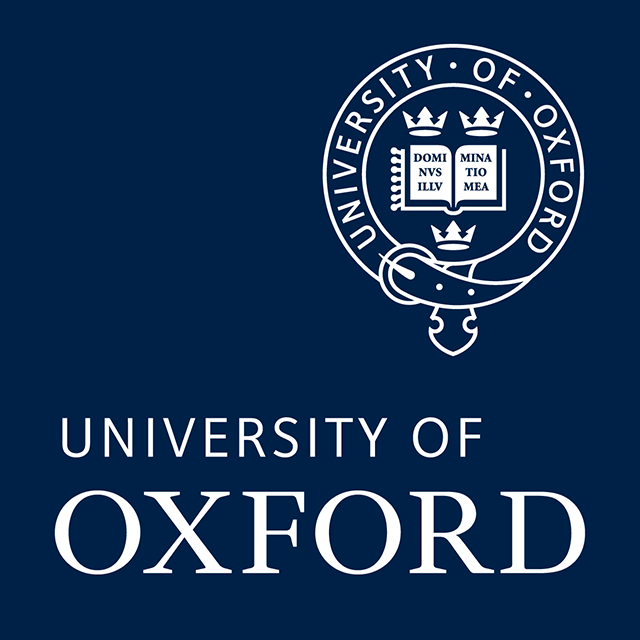
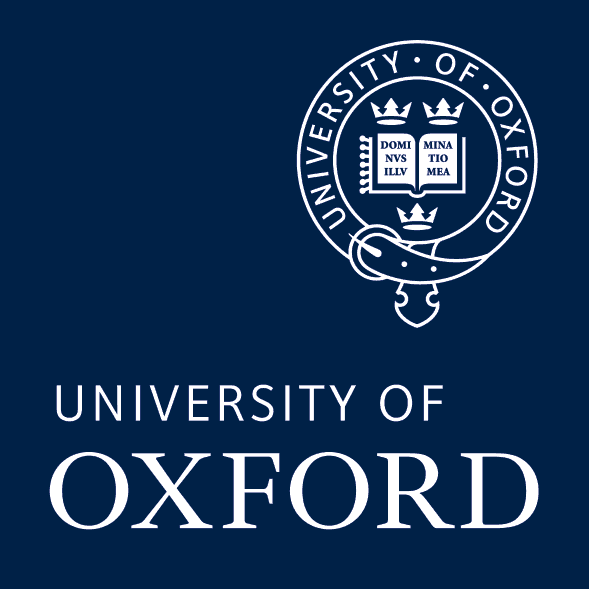
Improve images

diff --git a/server/templates/footer.html b/server/templates/footer.html
@@ -13,29 +13,41 @@
   <!-- AddToAny END -->
   <!-- Sponsor Links -->
   <div>
-    <img class="logo" height="64" width="64" src="{{STATIC_URL}}/img/oxford_64.png" srcset="
-        {{STATIC_URL}}/img/oxford_64.png 1x, 
-        {{STATIC_URL}}/img/oxford_96.png 1.5x,
+    <img
+      class="logo"
+      height="64"
+      width="64"
+      src="{{STATIC_URL}}/img/oxford_64.png"
+      srcset="
+        {{STATIC_URL}}/img/oxford_64.png  1x,
         {{STATIC_URL}}/img/oxford_128.png 2x,
-        {{STATIC_URL}}/img/oxford.png 2.5x
-      " alt="Logo of the University of Oxford" />
+        {{STATIC_URL}}/img/oxford.png     2.5x
+      "
+      alt="Logo of the University of Oxford"
+    />
 
-    <img class="logo" height="64" width="162" src="{{STATIC_URL}}/img/australian_national_university_64.jpg" srcset="
-        {{STATIC_URL}}/img/australian_national_university_64.jpg 1x, 
-        {{STATIC_URL}}/img/australian_national_university_96.jpg 1.5x,
-        {{STATIC_URL}}/img/australian_national_university_128.jpg 2x,
-        {{STATIC_URL}}/img/australian_national_university.jpg 2.5x
-      " alt="Logo of Australian National University" />
-    <img class="logo" height="64" width="109" src="{{STATIC_URL}}/img/foretold_64.png" srcset="
-        {{STATIC_URL}}/img/foretold_64.png 1x, 
-        {{STATIC_URL}}/img/foretold_96.png 1.5x,
-        {{STATIC_URL}}/img/foretold.png 2x
-      " alt="Logo of Foretold" />
+    <img
+      class="logo"
+      height="64"
+      width="160"
+      src="{{STATIC_URL}}/img/australian_national_university_64.png"
+      srcset="{{STATIC_URL}}/img/australian_national_university.png 2x"
+      alt="Logo of Australian National University"
+    />
+    <img
+      class="logo"
+      height="64"
+      width="109"
+      src="{{STATIC_URL}}/img/foretold_64.png"
+      srcset="{{STATIC_URL}}/img/foretold.png 2x"
+      alt="Logo of Foretold"
+    />
   </div>
   <div class="footer-row disclaimer">
-    The above displayed data and predictions are results of estimation and modelling.
-    As of March 28, this is a beta, and while it runs on real data it will be a few
-    days until it is properly vetted. Please <a href="/about">contact us</a>
+    The above displayed data and predictions are results of estimation and
+    modelling. As of March 28, this is a beta, and while it runs on real data it
+    will be a few days until it is properly vetted. Please
+    <a href="/about">contact us</a>
     before using our data for major decisions.
   </div>
 </div>
